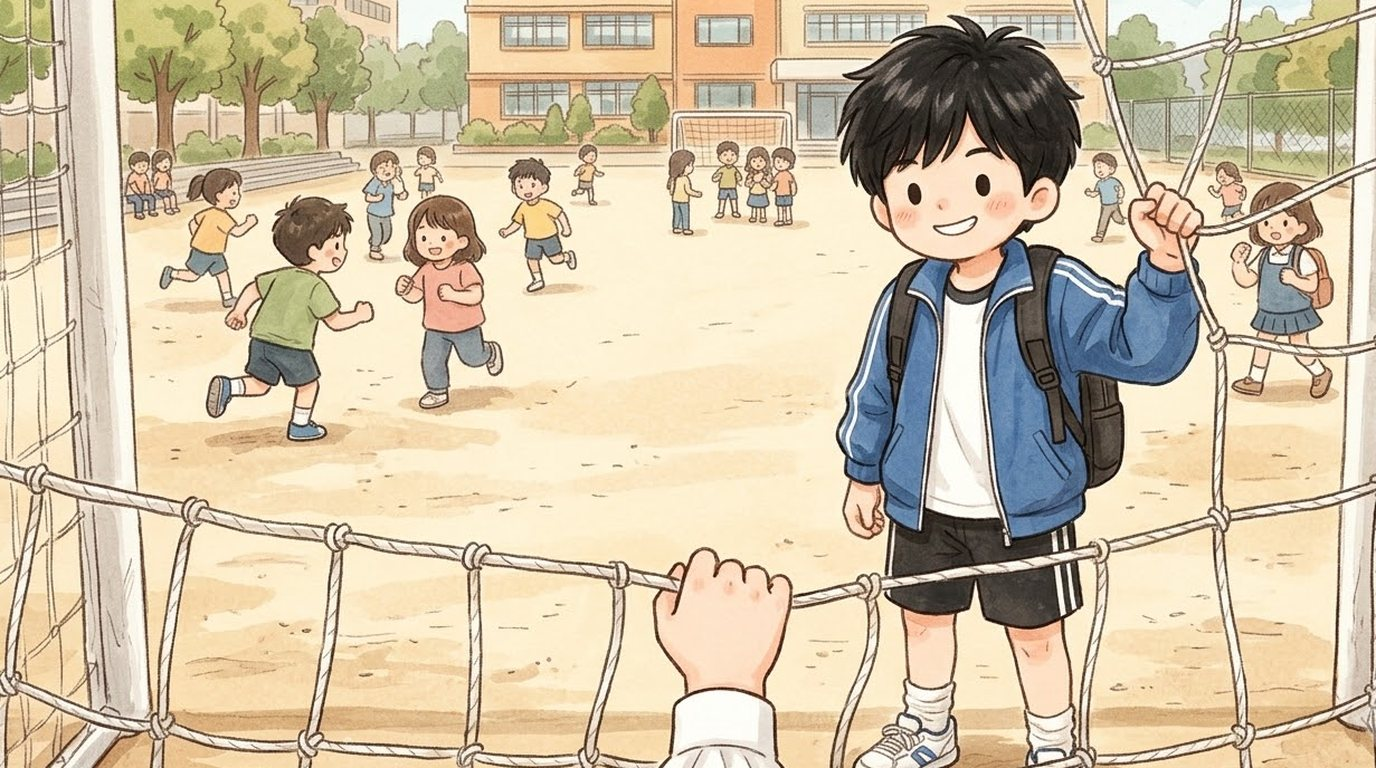
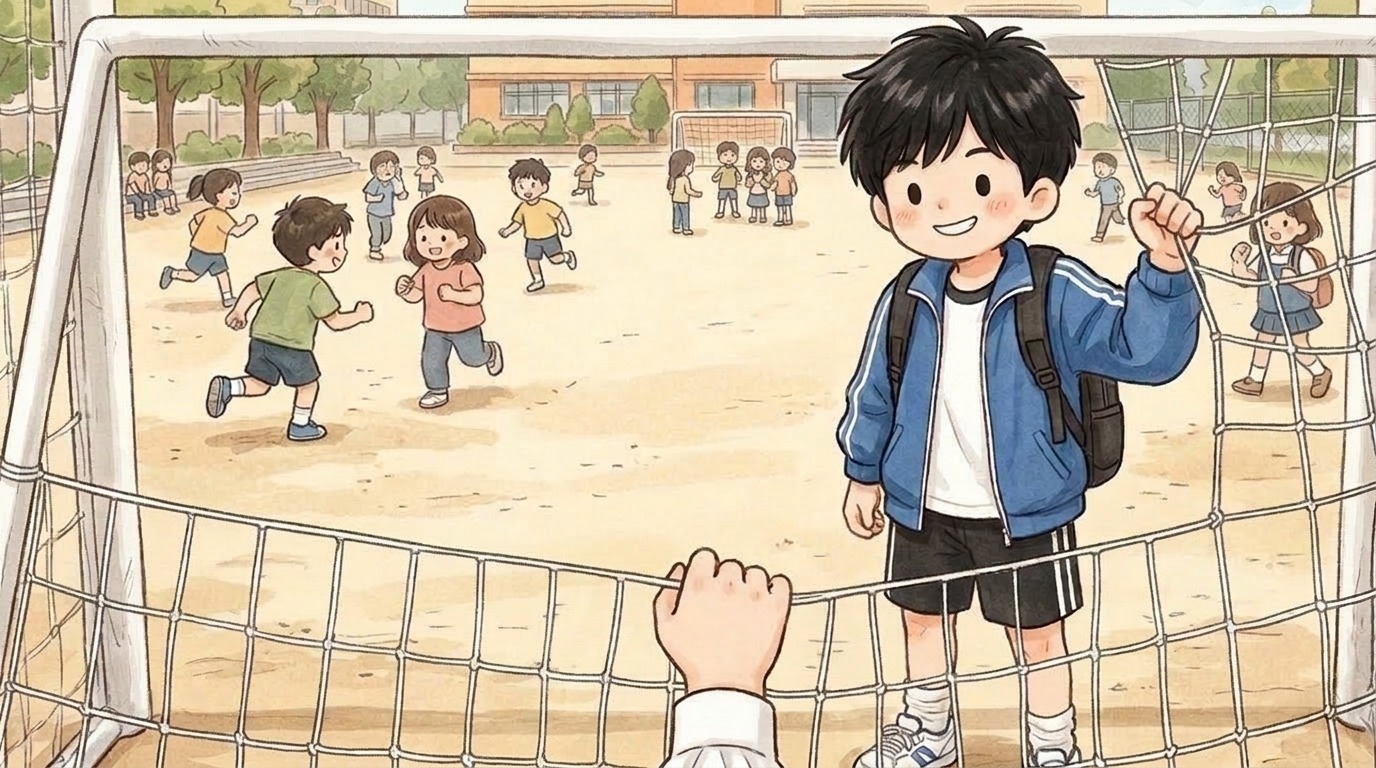
준호 16일차(오늘은 너 먼저) 골대 그물: 밧줄 사다리 같던 그물을 흰 골대 틀에 촘촘한 축구 골대 그물로(API)

diff --git a/index.html b/index.html
@@ -119,14 +119,14 @@ body,button{word-break:keep-all;overflow-wrap:break-word}
 <div id="fader"></div>
 <script>
 // same address, newest version: if the page this phone has kept is older than the one online, fetch the new one and reopen
-const BUILD='1108214439';
+const BUILD='1108215505';
 try{fetch(location.pathname,{cache:'no-store'}).then(r=>r.text()).then(t=>{const m=t.match(/const BUILD='(\d+)'/);if(m&&m[1]!==BUILD&&sessionStorage.getItem('upd')!==m[1]){sessionStorage.setItem('upd',m[1]);fetch(location.pathname,{cache:'reload'}).then(()=>location.reload())}}).catch(()=>{})}catch(e){}
 </script>
-<script src="i18n.js?v=1108214439"></script>
-<script src="i18n_prologue_v2.js?v=1108214439"></script>
-<script src="day2/i18n_engine.js?v=1108214439"></script>
-<script src="day2/data.js?v=1108214439"></script>
-<script src="day3/data.js?v=1108214439"></script>
+<script src="i18n.js?v=1108215505"></script>
+<script src="i18n_prologue_v2.js?v=1108215505"></script>
+<script src="day2/i18n_engine.js?v=1108215505"></script>
+<script src="day2/data.js?v=1108215505"></script>
+<script src="day3/data.js?v=1108215505"></script>
 <script>
 // ---------- data ----------
 const MW=1672,MH=941,KID=180;
@@ -569,36 +569,36 @@ function pickHero(){const m=document.getElementById('modal'),c=document.getEleme
  c.innerHTML=`<h2>${tr('전학생 반장되기')}</h2><p>${tr('한국말이 아직 서툰 전학생,<br>반장 선거에 나가다.')}</p><p style="margin-top:14px">${tr('누구로 할까요?')}</p>${(()=>{const s=loadSave();return s&&s.day>=2&&s.mode===UI+'-'+LANG?`<p><button class="big" id="cont">${tr('{n}일차부터 이어 하기').replace('{n}',s.day)}</button></p>`:''})()}<div class="pick heroes"><button data-h="hero_f"><img src="faces/hero_f_smile.jpg" alt="여자 주인공">${heroName(1)}</button><button data-h="hero_m"><img src="faces/hero_m_smile.jpg" alt="남자 주인공">${heroName(0)}</button></div>`;
  m.classList.add('on');{const cb=document.getElementById('cont');if(cb)cb.onclick=()=>{const s=loadSave();HERO=s.hero;Object.assign(HEART,s.heart||{});(s.found||[]).forEach(k=>FOUND.add(k));HEART_D1={...HEART};chime();(typeof contGame==='function'?contGame(s):startDay(Math.min(s.day,Object.keys(window.D3||{}).length?3:2)))}}c.querySelectorAll('.pick button').forEach(b=>b.onclick=()=>{HERO=b.dataset.h;m.classList.remove('on');chime();bgm('day');load('home_am');say([['nar','','이사 온 다음 날 아침. 아직 풀지 못한 상자들이 쌓여 있다.'],['think','sad','(오늘부터 새 학교야. 여기 말도 아직 서툰데…….)'],['think','smile','({m}한테 인사하고 학교 가야지.)']],morning)})}
 </script>
-<script src="day2/engine.js?v=1108214439"></script>
-<script src="day2/ep_minho.js?v=1108214439"></script>
-<script src="day2/meet.js?v=1108214439"></script>
-<script src="day2/ep_sua.js?v=1108214439"></script>
-<script src="day2/ep_hangyeol.js?v=1108214439"></script>
-<script src="day2/ep_siwoo.js?v=1108214439"></script>
-<script src="day2/ep_haram.js?v=1108214439"></script>
-<script src="day2/ep_jiho.js?v=1108214439"></script>
-<script src="day2/ep_hyeeun.js?v=1108214439"></script>
-<script src="day2/ep_haneul.js?v=1108214439"></script>
-<script src="day2/ep_junho.js?v=1108214439"></script>
-<script src="day2/ep_yuna.js?v=1108214439"></script>
-<script src="day2/ep_yena.js?v=1108214439"></script>
-<script src="day2/ep_haeun.js?v=1108214439"></script>
-<script src="day2/ep_youngmin.js?v=1108214439"></script>
-<script src="day2/ep_seah.js?v=1108214439"></script>
-<script src="day2/ep_jihoon.js?v=1108214439"></script>
-<script src="words_ja_ru.js?v=1108214439"></script>
-<script src="day2/mybag.js?v=1108214439"></script>
-<script src="day2/wordpics.js?v=1108214439"></script>
-<script src="day2/spots.js?v=1108214439"></script>
-<script src="day2/textfit.js?v=1108214439"></script>
-<script src="day2/tester.js?v=1108214439"></script>
-<script src="day2/ux.js?v=1108214439"></script>
-<script src="day2/tapword.js?v=1108214439"></script>
-<script src="day2/review.js?v=1108214439"></script>
-<script src="day2/plane.js?v=1108214439"></script>
-<script src="day2/bubble.js?v=1108214439"></script>
-<script src="day2/ep_ending.js?v=1108214439"></script>
-<script src="day2/ending.js?v=1108214439"></script>
+<script src="day2/engine.js?v=1108215505"></script>
+<script src="day2/ep_minho.js?v=1108215505"></script>
+<script src="day2/meet.js?v=1108215505"></script>
+<script src="day2/ep_sua.js?v=1108215505"></script>
+<script src="day2/ep_hangyeol.js?v=1108215505"></script>
+<script src="day2/ep_siwoo.js?v=1108215505"></script>
+<script src="day2/ep_haram.js?v=1108215505"></script>
+<script src="day2/ep_jiho.js?v=1108215505"></script>
+<script src="day2/ep_hyeeun.js?v=1108215505"></script>
+<script src="day2/ep_haneul.js?v=1108215505"></script>
+<script src="day2/ep_junho.js?v=1108215505"></script>
+<script src="day2/ep_yuna.js?v=1108215505"></script>
+<script src="day2/ep_yena.js?v=1108215505"></script>
+<script src="day2/ep_haeun.js?v=1108215505"></script>
+<script src="day2/ep_youngmin.js?v=1108215505"></script>
+<script src="day2/ep_seah.js?v=1108215505"></script>
+<script src="day2/ep_jihoon.js?v=1108215505"></script>
+<script src="words_ja_ru.js?v=1108215505"></script>
+<script src="day2/mybag.js?v=1108215505"></script>
+<script src="day2/wordpics.js?v=1108215505"></script>
+<script src="day2/spots.js?v=1108215505"></script>
+<script src="day2/textfit.js?v=1108215505"></script>
+<script src="day2/tester.js?v=1108215505"></script>
+<script src="day2/ux.js?v=1108215505"></script>
+<script src="day2/tapword.js?v=1108215505"></script>
+<script src="day2/review.js?v=1108215505"></script>
+<script src="day2/plane.js?v=1108215505"></script>
+<script src="day2/bubble.js?v=1108215505"></script>
+<script src="day2/ep_ending.js?v=1108215505"></script>
+<script src="day2/ending.js?v=1108215505"></script>
 <script>
 // the goal shows big for a few seconds, then folds into a small pill (tap it to open it again)
 {const g=document.getElementById('goal');let t=null;const big=()=>{g.classList.remove('mini');clearTimeout(t);t=setTimeout(()=>g.classList.add('mini'),4000)};
